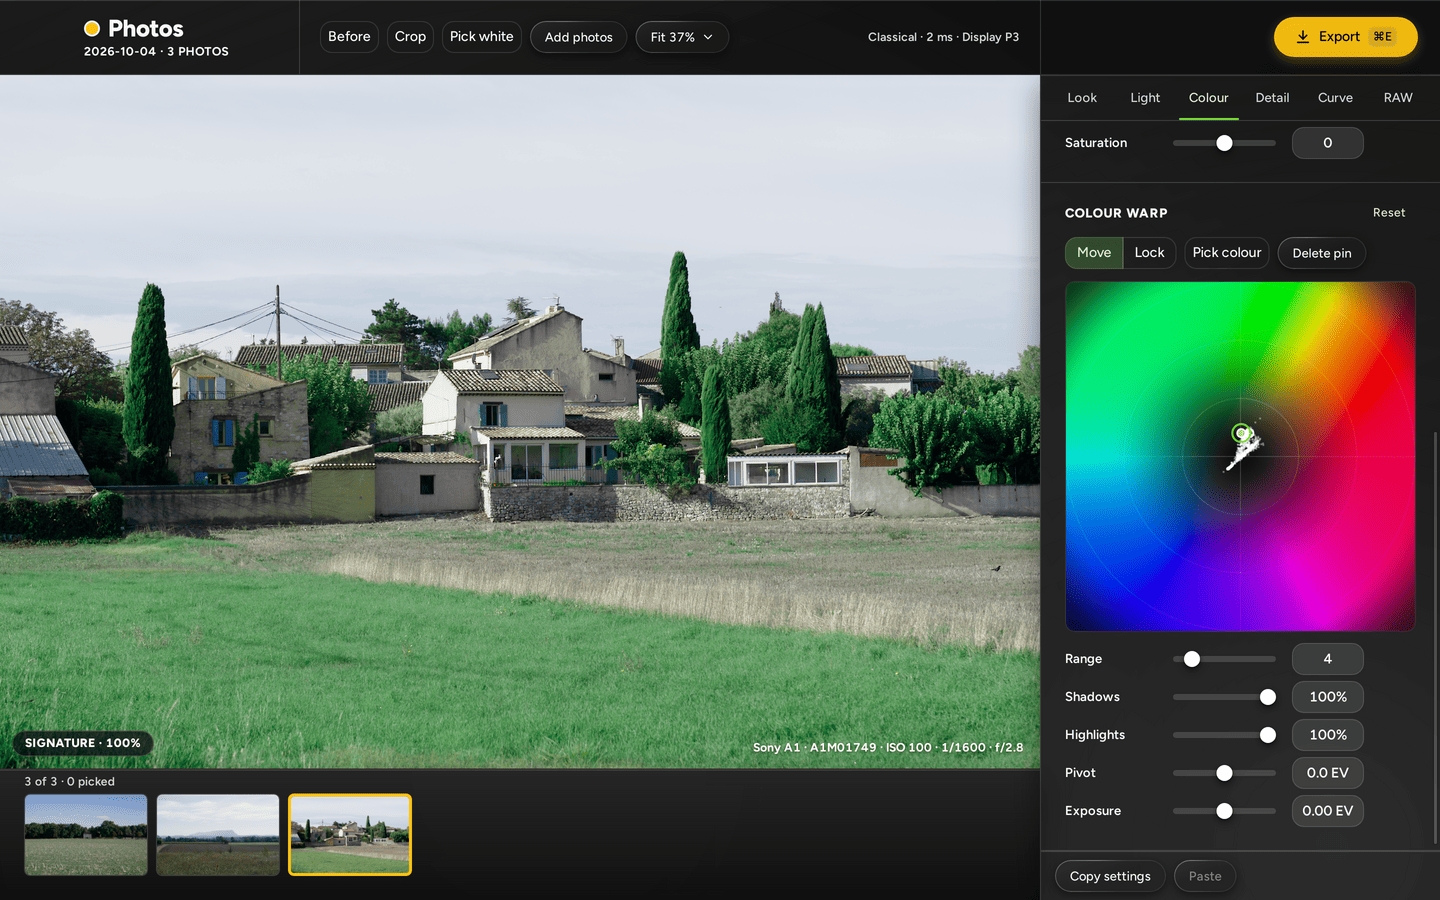
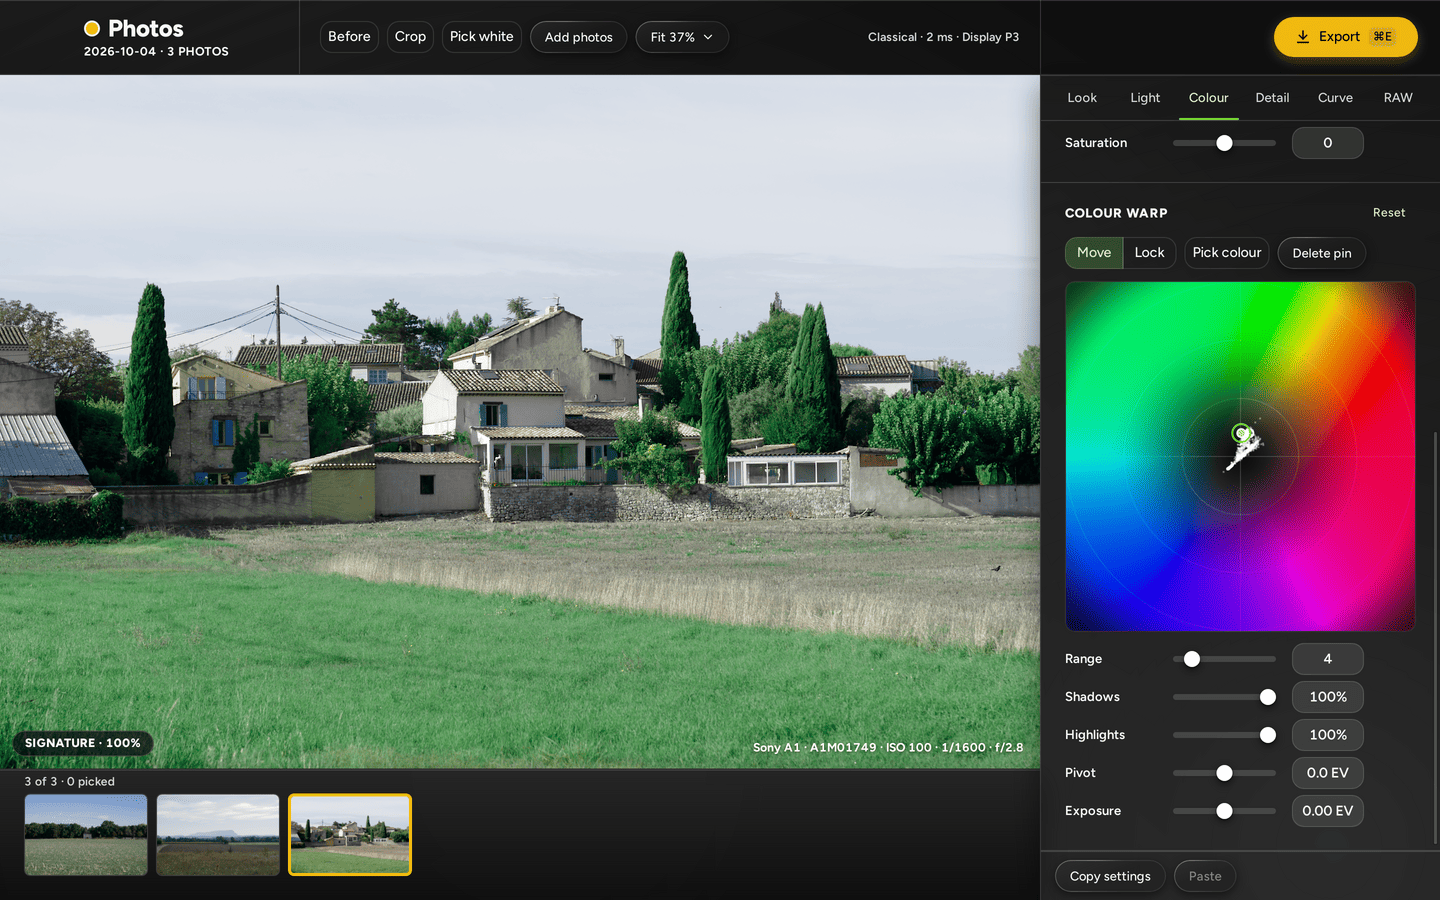
README: pictures and social card retaken with 0.1.10
The six README pictures and the social card, taken again from A1M01749 with
the highlight range and the white lift together (the same states and warp
pin as before). They match the 0.1.9 pictures to within a code or two.

Claude-Session: https://claude.ai/code/session_015yVsquBXWFc8zJt2CLktQS

Changed region(s): [[0.7188, 0.3111, 1.0, 0.7156]]

diff --git a/docs/STATUS.md b/docs/STATUS.md
@@ -332,7 +332,7 @@ The ground, the aurora, the frost, the fills, the grey labels and the filmstrip 
 
 The RAW tab's Highlights roll-off moved at most 14 of 255 codes between 0 and 1 on 11 photos (a shoulder 0.5 to 2.5 stops under a Sony clip that well-exposed photos hardly reach, under ACES 2's own compression). The research (`research/arri-highlight-clipping-2026-10-17.md`) found that ARRI publishes the ALEV III clip exactly (7.638 stops over grey at EI 800) and that a Sony body clips about 3.6 stops over grey at the camera's exposure: below the Sony clip the chain already holds what an ALEXA would record, so only where the clip lands can differ. Your answers to its section 6 (the recommended option each time, `docs/16`): the roll-off becomes a **highlight range** that maps the Sony's top stop onto the ALEXA's range (`docs/02` C7), default 1 (your choice after the before-and-after, 2026-10-17: "Highlights 1 looks decent"; it started at 0.5 pending a blind A/B, now closed); it was to **replace the white lift** (C12 step 1b), but before the release the README pictures showed photos without clipped highlights darker in their upper tones than in 0.1.9 (A1M01749's sky, 90th percentile code 225 → 203), and you chose to keep the lift ("Hold; bring the lift back"): both run, the range moving the clip and the lift sizing a photo's whites; imported ARRI display LUTs and LogC3-to-Rec.709 looks receive the remapped range. The RAW tab's card is now **Range** (Highlights, Low light, a note). `PIPELINE_VERSION` 0.3.0 → 0.4.0; every golden image changes.
 
-- **Merged and released:** main [047ec67](https://github.com/ngriaznov/yellowmoon/commit/047ec67) (the range) and [98a9e23](https://github.com/ngriaznov/yellowmoon/commit/98a9e23) (the white lift back alongside it), released in 0.1.10 (your answers "Release as 0.1.10" and, after the lift came back and A1M01749 matched 0.1.9 again, "Release 0.1.10 when green"). The README pictures are retaken after the release.
+- **Merged and released:** main [047ec67](https://github.com/ngriaznov/yellowmoon/commit/047ec67) (the range) and [98a9e23](https://github.com/ngriaznov/yellowmoon/commit/98a9e23) (the white lift back alongside it), released in 0.1.10 (your answers "Release as 0.1.10" and, after the lift came back and A1M01749 matched 0.1.9 again, "Release 0.1.10 when green"). The README pictures and the social card are retaken with it (A1M01749, the same states and warp pin as before; they match 0.1.9's pictures to within a code or two, the lift being back); upload the card again (SOC-1).
 - **Spec:** `docs/02` C7 (the maths, the constants, the properties), `docs/01`, `docs/09`, `docs/10`, `docs/11`, `docs/13`, `docs/16`.
 - **Built (2026-10-17):** `ym_color::tone` (`HighlightRange`, `ToneParams` with `IDENTITY`), the kernel in `color.wgsl` (`c7_range`; `ChainU` stays 2096 bytes: `tone` is `[knee, clip, tau, expansion]`, `fl.z` the cap, 1e30 for "off" under Metal fast-math), `ym-core` (`PIPELINE_VERSION` 0.4.0), `ym render --rolloff` with the new help, the wire types and bindings, and the RAW tab's **Range** card with its note.
 - **The white lift kept (2026-10-17, your "Hold; bring the lift back"):** back as in 0.1.9 (`ym_color::exposure::white`, C12 step 1b on the CPU and the GPU, the DNG, `white_offset_ev`, `--white-offset`, the Light tab's White card and the Automatic card's White row); its estimator now meters the preview after C7 at its defaults, so the range's work is counted. GPU uniform: the amount in `fl.w`, `1 / span` in `grade0.w` (`ChainU` still 2096 bytes; the range keeps `tone` and `fl.z`). On the 12 local photos `A` is 0 to 0.98 stops; 4 get none (A1M01739 and ILCE-7M2 because the range already takes their highlights to codes 240 and 247, ILCE-7M3 and NEX-5N because they are not high-key); A1M01749's 90th percentile code is 224.9 again (225 in 0.1.9, 203.7 with the range alone). The five Light and Look references are byte-identical to 0.1.9's again. Golden: the synthetic charts get no lift, so no golden picture changed.
